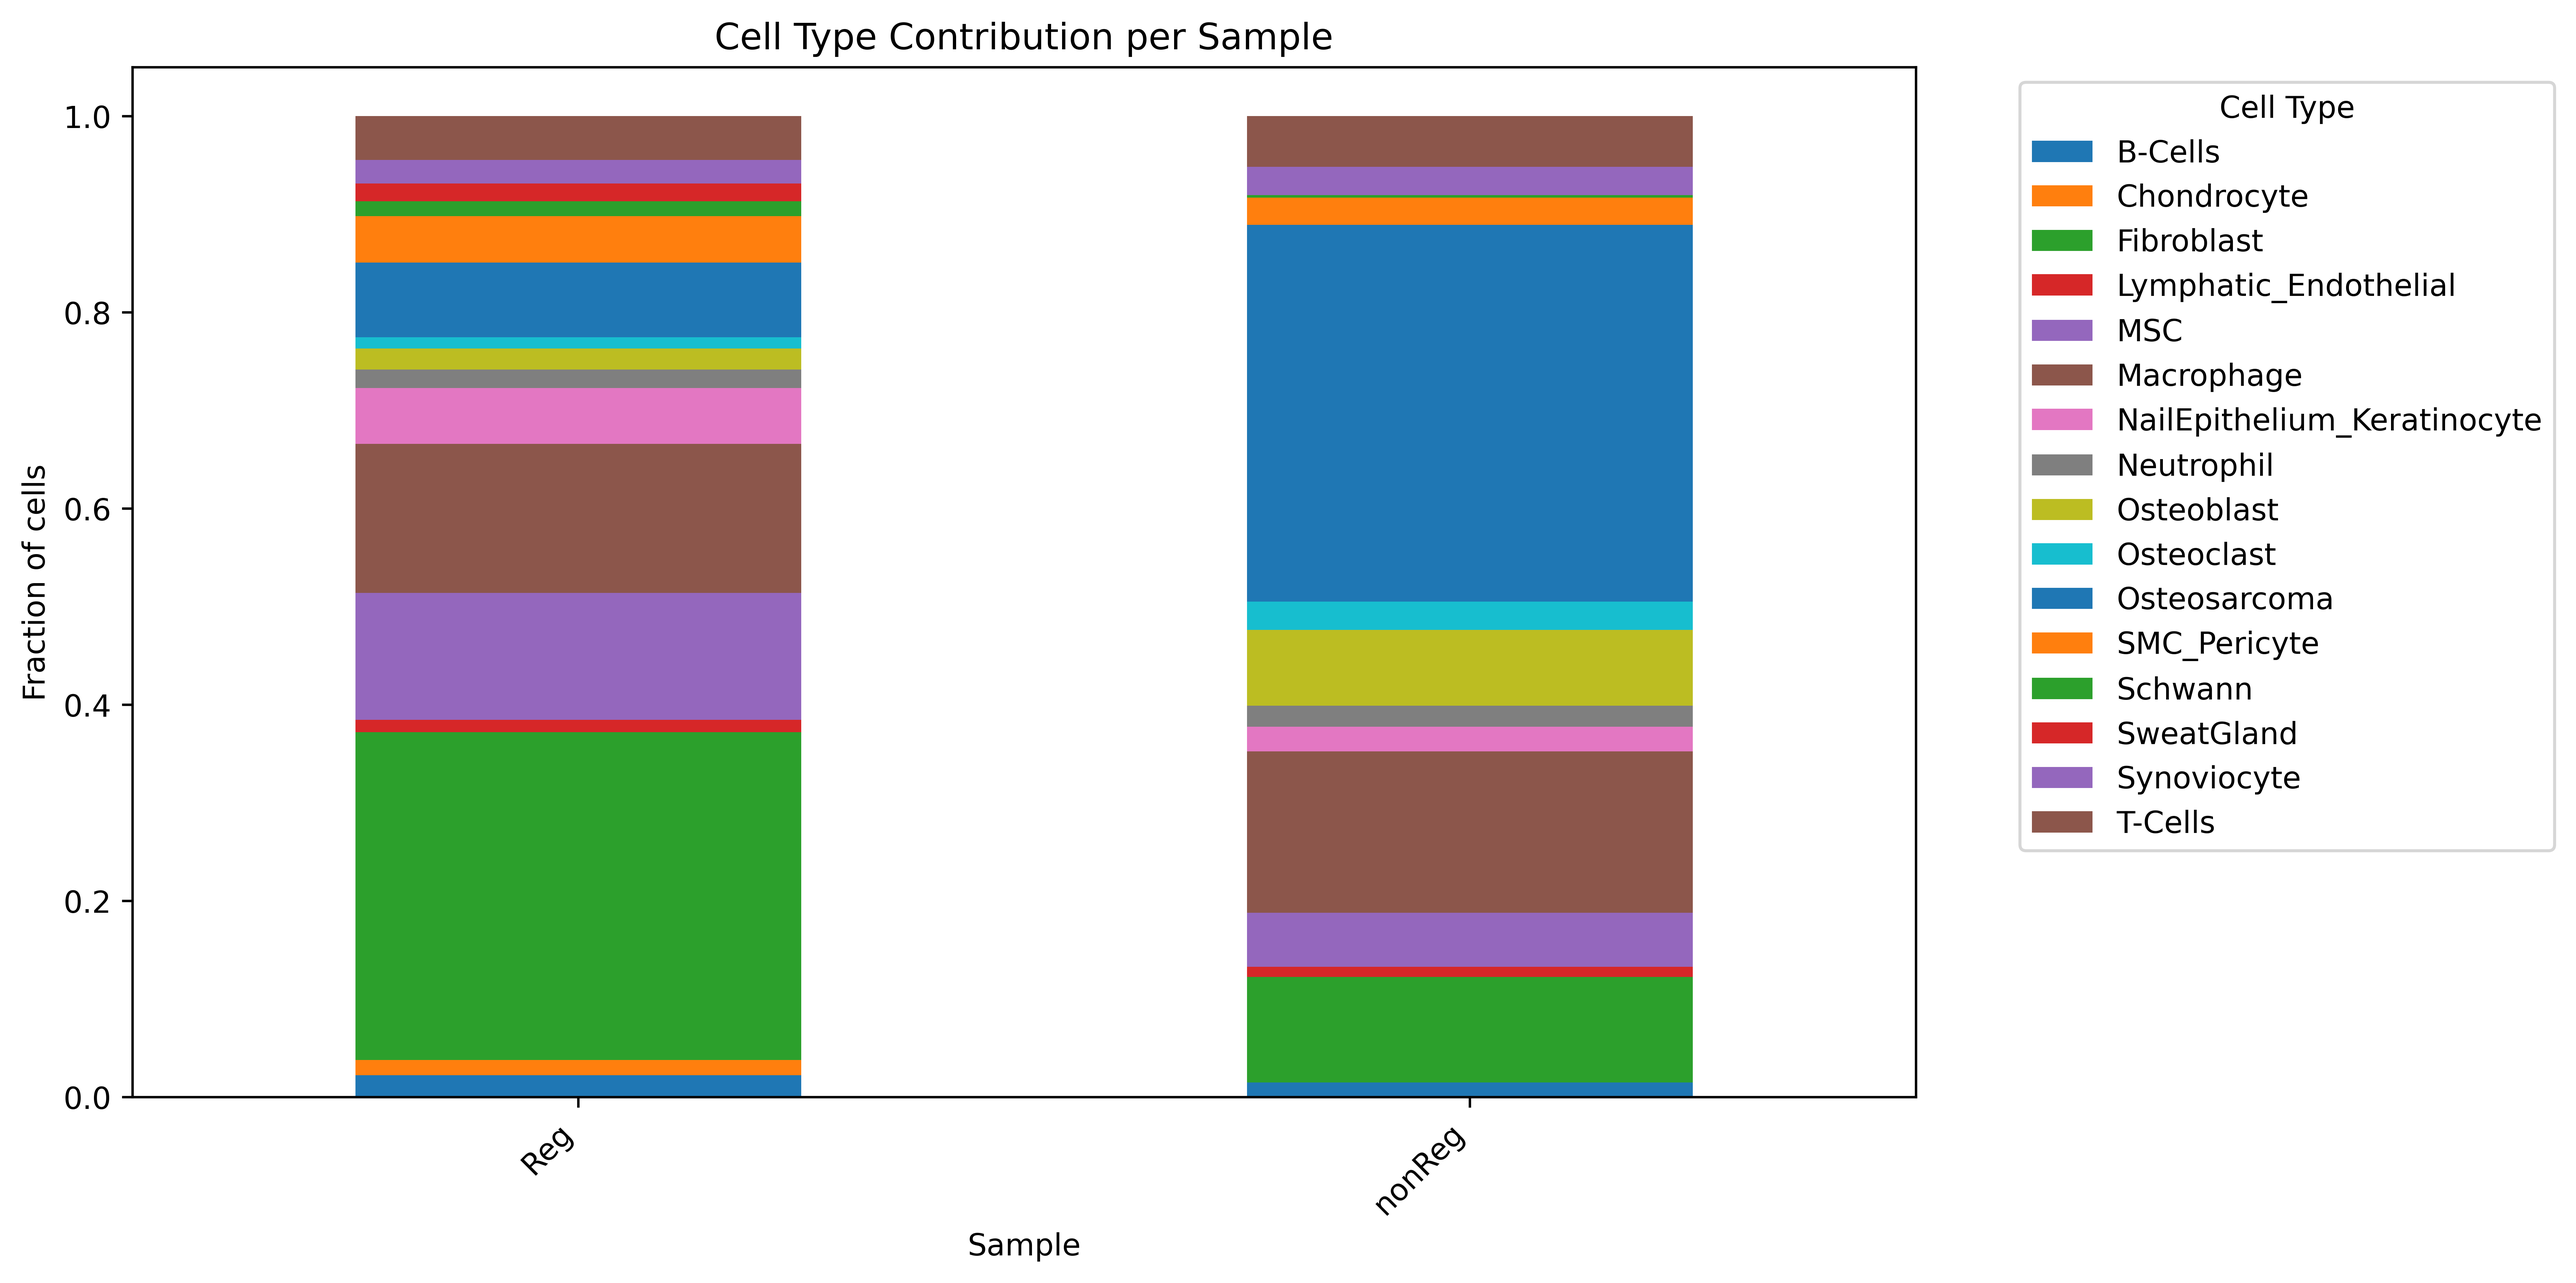
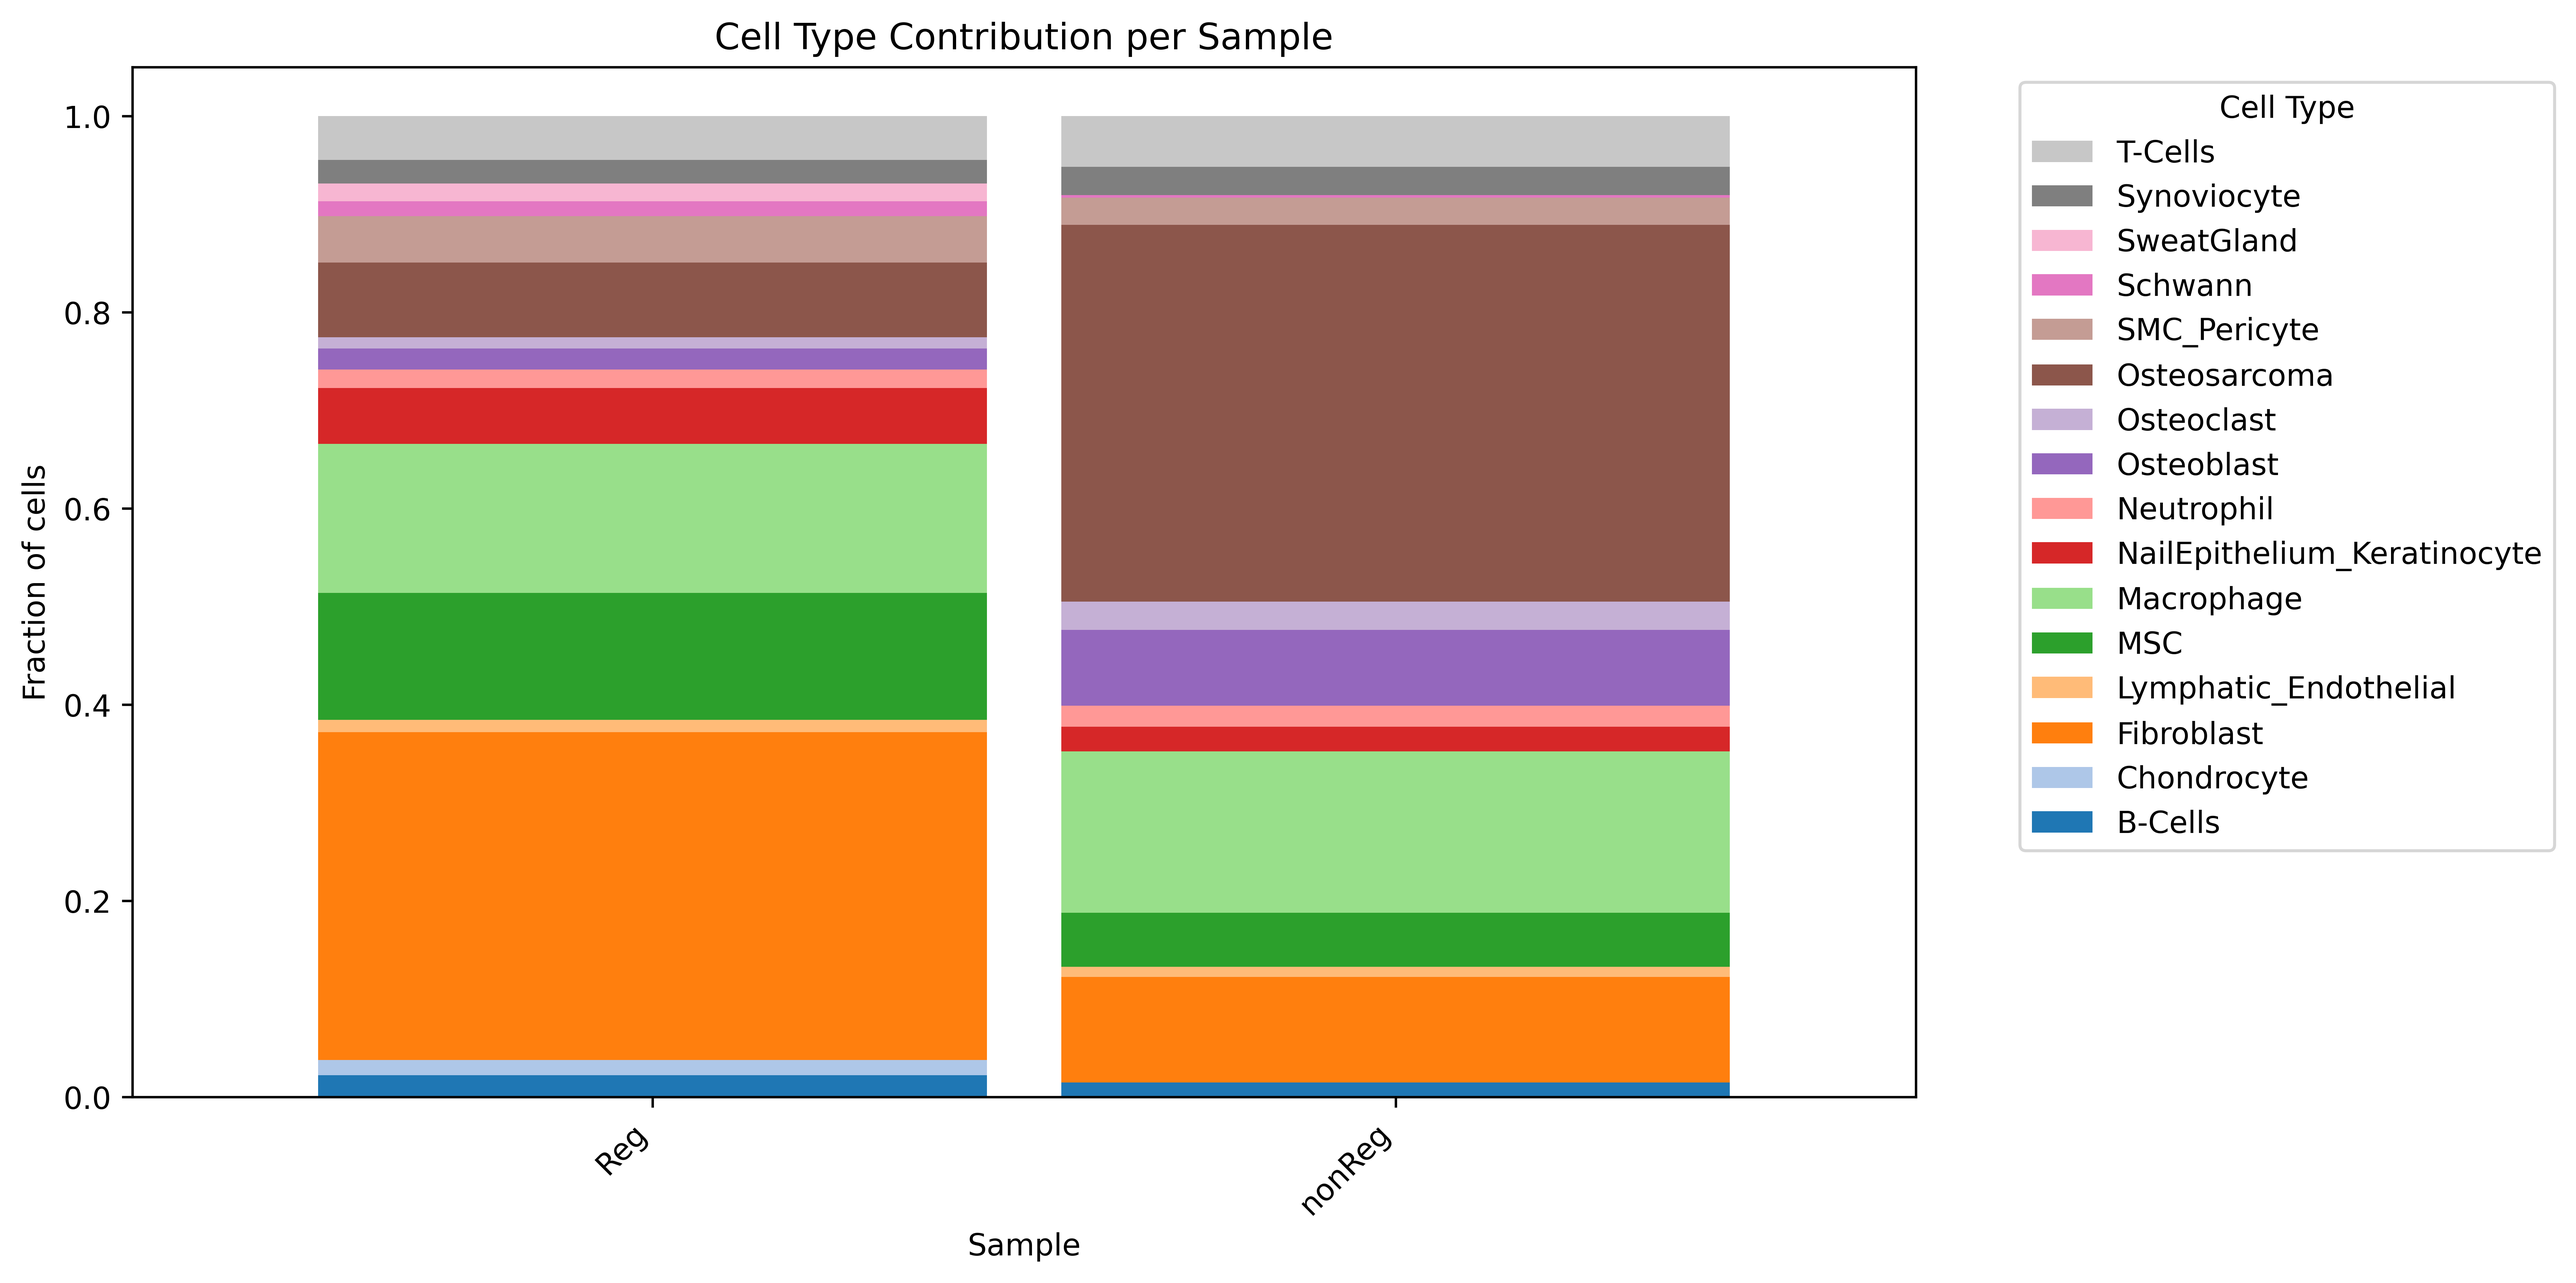
fix stats and remove some redundant plots in feature plots block

diff --git a/src/stats.py b/src/stats.py
@@ -1,10 +1,9 @@
-#!/usr/bin/env python3
-
 import argparse
 import os
 import scanpy as sc
 import pandas as pd
 import matplotlib.pyplot as plt
+import numpy as np
 
 parser = argparse.ArgumentParser()
 parser.add_argument("--input", required=True)
@@ -15,26 +14,77 @@ adata = sc.read_h5ad(args.input)
 
 os.makedirs("figures", exist_ok=True)
 
-# Create counts table (celltype x sample)
+# =========================
+# COUNTS TABLE
+# =========================
 ct_counts = pd.crosstab(adata.obs["celltype"], adata.obs["sample"])
 ct_counts["Total"] = ct_counts.sum(axis=1)
 ct_counts.loc["Total"] = ct_counts.sum(axis=0)
 
-# Save counts CSV (NO FRACTIONS)
 ct_counts.to_csv(f"{args.prefix}_cell_counts.csv")
 
-# For plot: calculate fractions per sample
-ratios_df = ct_counts.drop("Total").drop(columns="Total").div(ct_counts.drop("Total").drop(columns="Total").sum(axis=0), axis=1)
+# =========================
+# FRACTIONS FOR PLOT
+# =========================
+ratios_df = (
+    ct_counts.drop("Total")
+    .drop(columns="Total")
+    .div(ct_counts.drop("Total").drop(columns="Total").sum(axis=0), axis=1)
+)
 
-# Stacked bar plot
-ax = ratios_df.T.plot(kind='bar', stacked=True, figsize=(12, 6))
+# =========================
+# 🔥 COLOR FIX (NO MORE DUPLICATES)
+# =========================
+celltypes = ratios_df.index.tolist()
+n_ct = len(celltypes)
+
+# Use a large distinct palette (tab20 + tab20b + tab20c combined)
+palette = (
+    list(plt.cm.tab20.colors)
+    + list(plt.cm.tab20b.colors)
+    + list(plt.cm.tab20c.colors)
+)
+
+# If still more celltypes, fallback to evenly spaced HSV
+if n_ct > len(palette):
+    extra = plt.cm.hsv(np.linspace(0, 1, n_ct - len(palette)))
+    palette.extend(extra)
+
+colors = palette[:n_ct]
+
+# =========================
+# PLOT
+# =========================
+ax = ratios_df.T.plot(
+    kind='bar',
+    stacked=True,
+    figsize=(12, 6),
+    color=colors,
+    width=0.9
+)
+
 plt.ylabel("Fraction of cells")
 plt.xlabel("Sample")
 plt.title("Cell Type Contribution per Sample")
 plt.xticks(rotation=45, ha='right')
-plt.legend(title='Cell Type', bbox_to_anchor=(1.05, 1), loc='upper left')
+
+# cleaner legend (sorted by abundance)
+handles, labels = ax.get_legend_handles_labels()
+plt.legend(
+    handles[::-1],
+    labels[::-1],
+    title='Cell Type',
+    bbox_to_anchor=(1.05, 1),
+    loc='upper left'
+)
+
 plt.tight_layout()
-plt.savefig(f"figures/{args.prefix}_cell_ratios.png", dpi=600, bbox_inches='tight')
+
+plt.savefig(
+    f"figures/{args.prefix}_cell_ratios.png",
+    dpi=600,
+    bbox_inches='tight'
+)
 plt.close()
 
 print(f"Saved: {args.prefix}_cell_counts.csv")

diff --git a/README.md b/README.md
@@ -199,7 +199,7 @@ marker_genes = {
 <img src="figures/umap_axt_Acp5.png?v=4" width="33%" /><img src="figures/umap_axt_Dcstamp.png?v=4" width="33%" /><img src="figures/umap_axt_Sp8.png?v=4" width="33%" />
 <img src="figures/umap_axt_Acta2.png?v=4" width="33%" /><img src="figures/umap_axt_Frzb.png?v=4" width="33%" /><img src="figures/umap_axt_Cd163.png?v=4" width="33%" />
 <img src="figures/umap_axt_Cd19.png?v=4" width="33%" /><img src="figures/umap_axt_Pdgfra.png?v=4" width="33%" /><img src="figures/umap_axt_S100a8.png?v=4" width="33%" />
-<img src="figures/umap_axt_Cnn1.png?v=4" width="33%" /><img src="figures/umap_axt_Krt7.png?v=4" width="33%" /><img src="figures/umap_axt_leiden.png?v=4" width="33%" />
+<img src="figures/umap_axt_Cnn1.png?v=4" width="33%" /><img src="figures/umap_axt_Krt7.png?v=4" width="33%" /><img src="figures/umap_axt_Plp1.png?v=4" width="33%" />
 <img src="figures/umap_axt_Myh11.png?v=4" width="33%" /><img src="figures/umap_axt_Prox1.png?v=4" width="33%" /><img src="figures/umap_axt_Gdf5.png?v=4" width="33%" />
 <img src="figures/umap_axt_Sox9.png?v=4" width="33%" /><img src="figures/umap_axt_Acan.png?v=4" width="33%" /><img src="figures/umap_axt_Col9a1.png?v=4" width="33%" />
 <img src="figures/umap_axt_Scnn1g.png?v=4" width="33%" /><img src="figures/umap_axt_Pmp22.png?v=4" width="33%" /><img src="figures/umap_axt_Cdh5.png?v=4" width="33%" />
@@ -209,12 +209,10 @@ marker_genes = {
 <img src="figures/umap_axt_Cxcl12.png?v=4" width="33%" /><img src="figures/umap_axt_Abcc9.png?v=4" width="33%" /><img src="figures/umap_axt_Cd3d.png?v=4" width="33%" />
 <img src="figures/umap_axt_Matn1.png?v=4" width="33%" /><img src="figures/umap_axt_Col23a1.png?v=4" width="33%" /><img src="figures/umap_axt_Ighm.png?v=4" width="33%" />
 <img src="figures/umap_axt_Dsg3.png?v=4" width="33%" /><img src="figures/umap_axt_Alpl.png?v=4" width="33%" /><img src="figures/umap_axt_Bglap.png?v=4" width="33%" />
-<img src="figures/umap_axt_Cd3e.png?v=4" width="33%" /><img src="figures/umap_axt_Reg.png?v=4" width="33%" /><img src="figures/umap_axt_Erg.png?v=4" width="33%" />
-<img src="figures/umap_axt_Csf3r.png?v=4" width="33%" /><img src="figures/umap_axt_Aqp5.png?v=4" width="33%" />
+<img src="figures/umap_axt_Cd3e.png?v=4" width="33%" /><img src="figures/umap_axt_Erg.png?v=4" width="33%" /><img src="figures/umap_axt_S100b.png?v=4" width="33%" />
+<img src="figures/umap_axt_Csf3r.png?v=4" width="33%" /><img src="figures/umap_axt_Aqp5.png?v=4" width="33%" /><img src="figures/umap_axt_Csf1r.png?v=4" width="33%" />
 <img src="figures/umap_axt_Tagln.png?v=4" width="33%" /><img src="figures/umap_axt_Emcn.png?v=4" width="33%" /><img src="figures/umap_axt_Krt18.png?v=4" width="33%" />
 <img src="figures/umap_axt_Sp7.png?v=4" width="33%" /><img src="figures/umap_axt_Kdr.png?v=4" width="33%" /><img src="figures/umap_axt_Krt8.png?v=4" width="33%" />
-<img src="figures/umap_axt_Csf1r.png?v=4" width="33%" /><img src="figures/umap_axt_S100b.png?v=4" width="33%" /><img src="figures/umap_axt_Plp1.png?v=4" width="33%" />
-
 
 ## Annotations 
 
@@ -250,7 +248,7 @@ We used the above marker genes to annotate our celltypes as follows:
 | **Total**                        | 11684 |  19577 | 31261 |
 
 
-![](figures/axt_cell_ratios.png?v=4)
+![](figures/axt_cell_ratios.png?v=5)
 
 
 ###
